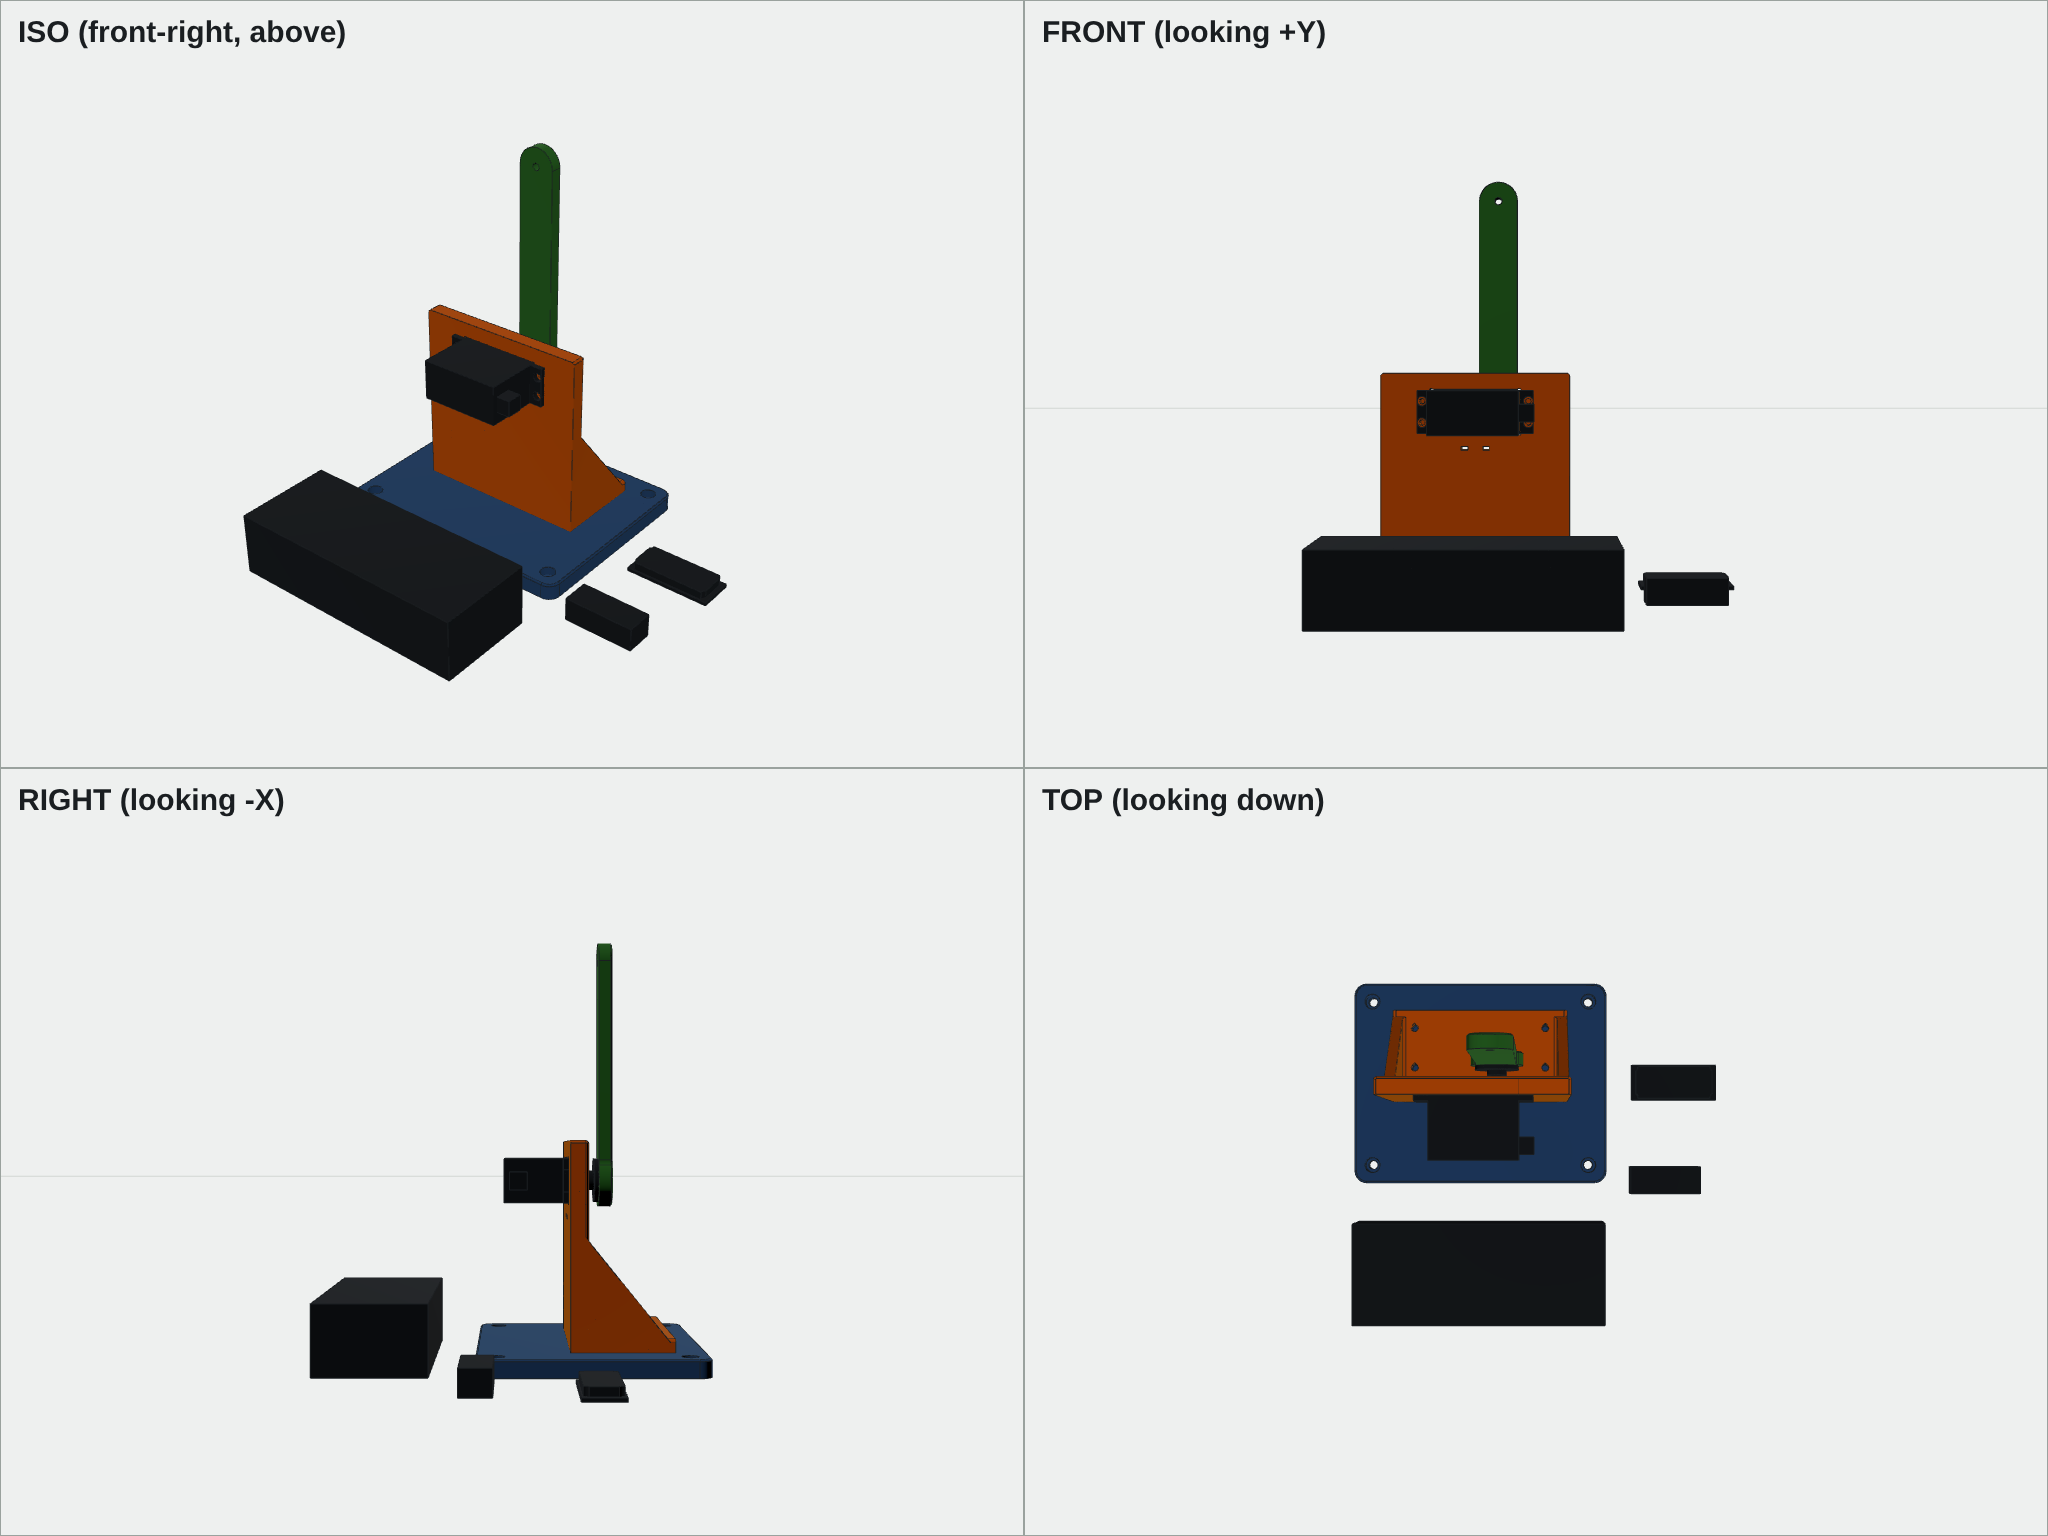
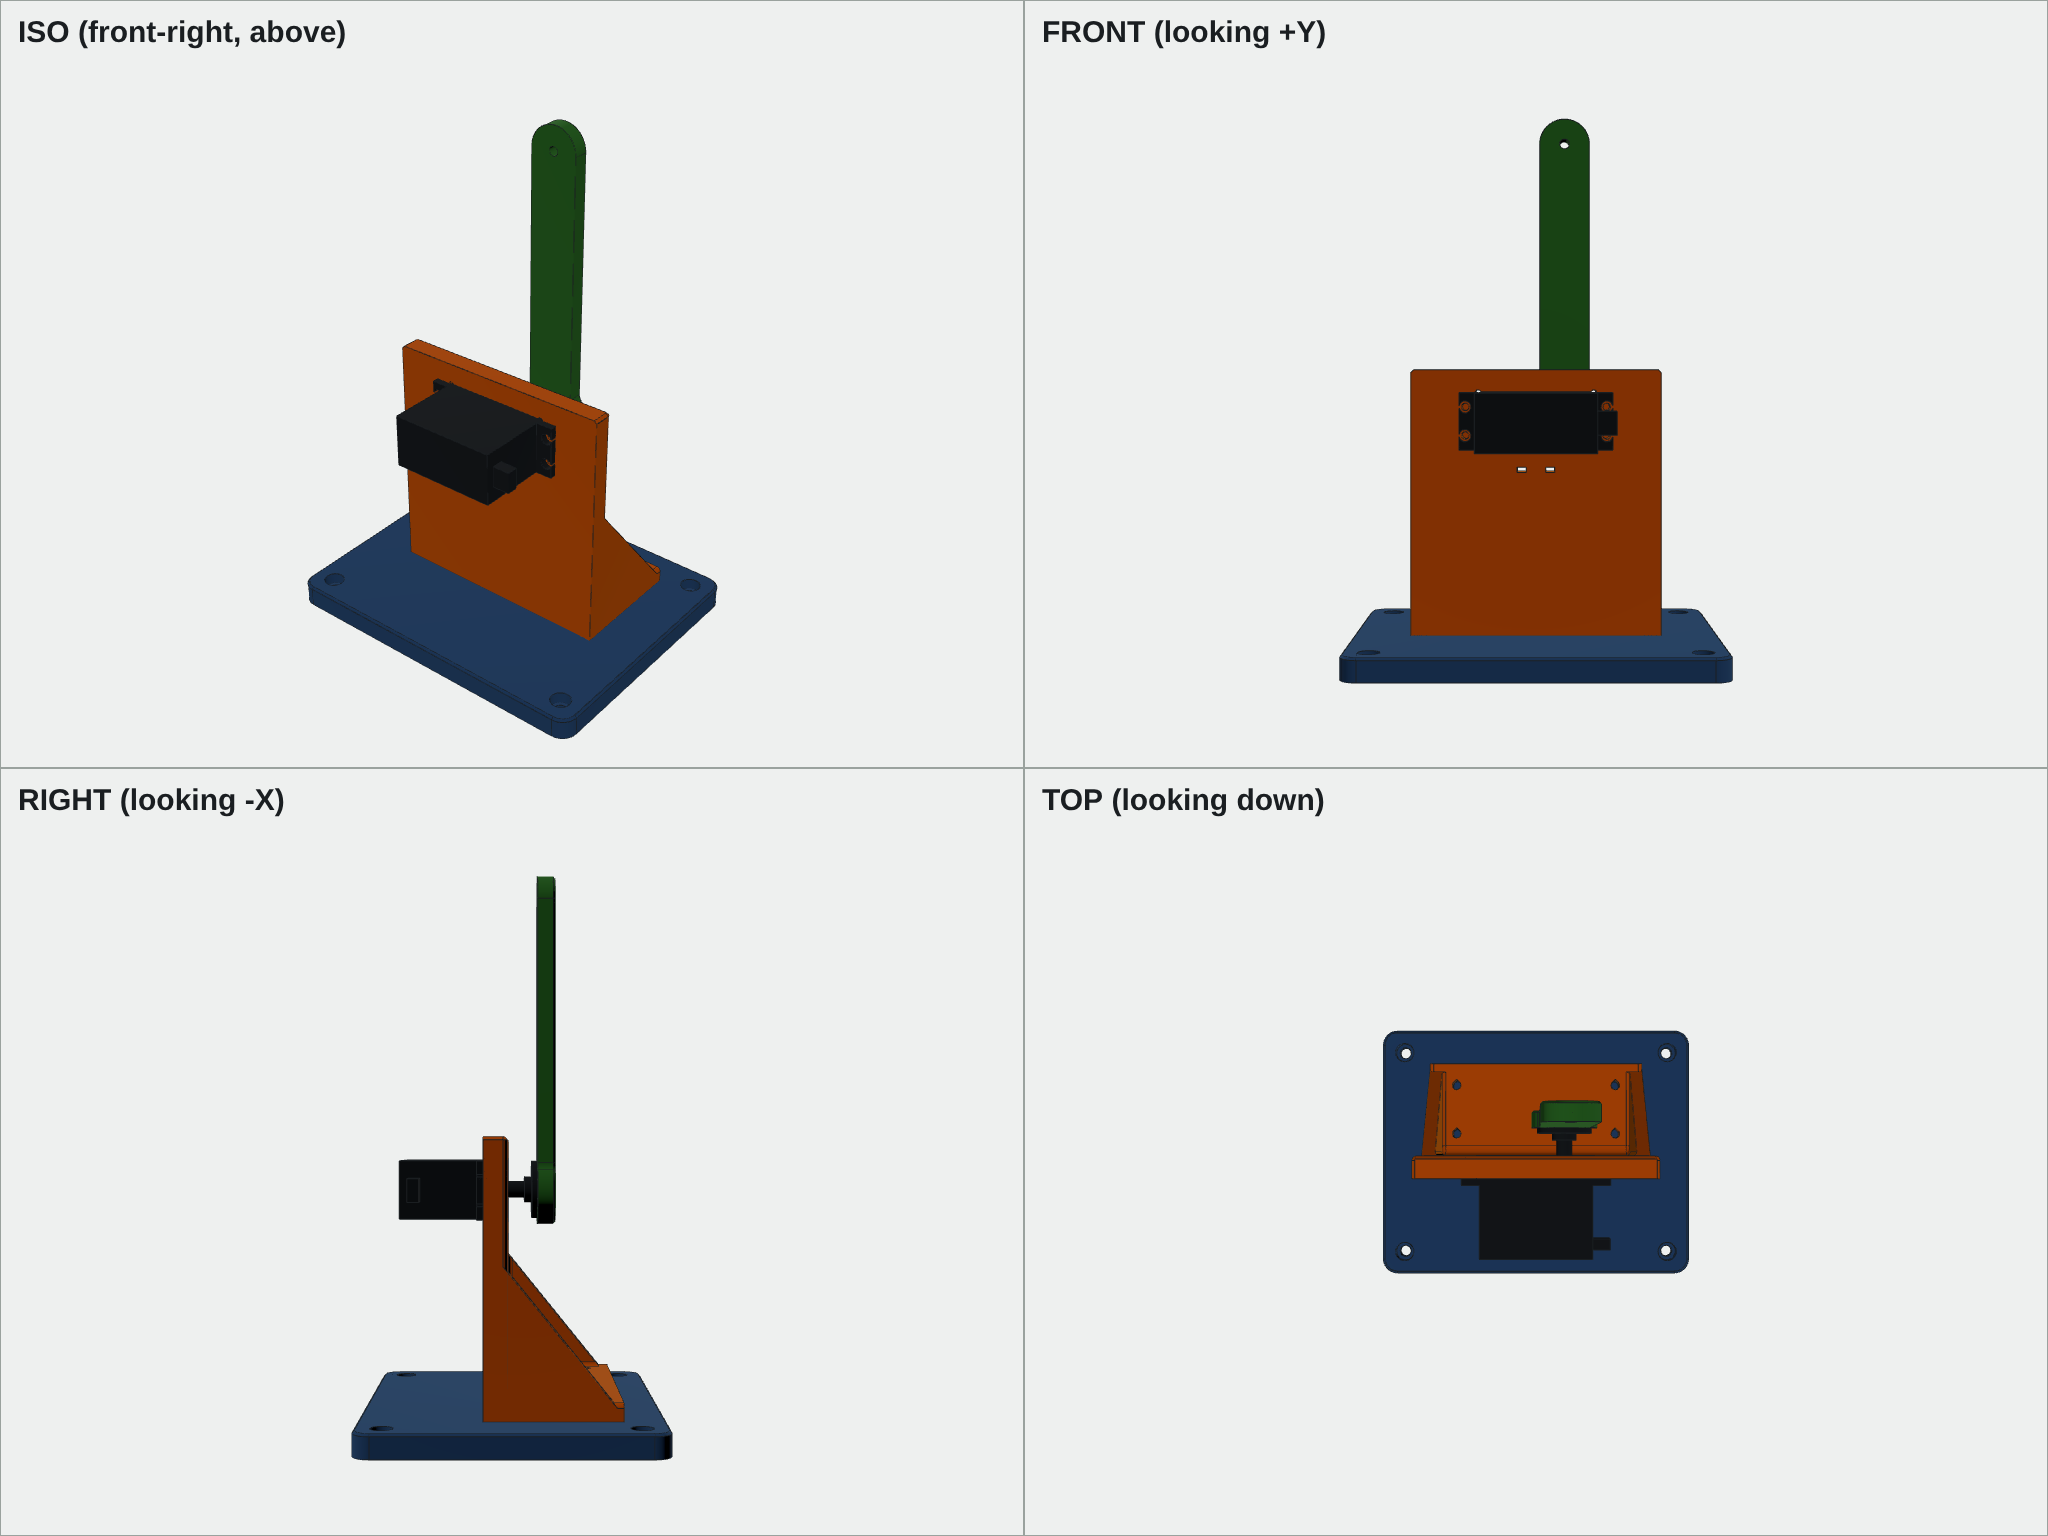
FEA result cache (servo_link check 56 s -> 18 s warm, identical results); close Bambu item on Spencer's decision
Claude-Session: https://claude.ai/code/session_01S68R6QqXZtq66TrxxxPXgt

diff --git a/kerf/fea.py b/kerf/fea.py
@@ -30,6 +30,34 @@ import numpy as np
 logging.getLogger("skfem").setLevel(logging.ERROR)
 
 
+# Result cache: a solve is fully determined by the mesh, the boundary faces each region selects, the load values,
+# the material and this file's code. Hashing exactly those (after meshing, before solving) makes a cache hit
+# provably the same answer; any change to geometry, loads, material or the solver is a miss. KERF_FEA_CACHE=0 disables.
+_SRC_HASH = __import__("hashlib").sha256(open(__file__, "rb").read()).hexdigest()[:16]
+
+
+def _cache_dir():
+    if os.environ.get("KERF_FEA_CACHE", "1") == "0":
+        return None
+    d = os.environ.get("KERF_CACHE") or os.path.join(os.path.dirname(os.path.dirname(os.path.abspath(__file__))), ".cache")
+    d = os.path.join(d, "fea")
+    os.makedirs(d, exist_ok=True)
+    return d
+
+
+def _key(E, nu, pts, tets, fixed_facets, loads):
+    import hashlib
+    h = hashlib.sha256()
+    import pyamg, scipy, skfem
+    h.update(f"{_SRC_HASH}|{skfem.__version__}|{pyamg.__version__}|{scipy.__version__}|{float(E)!r}|{float(nu)!r}|".encode())
+    for a in (np.round(pts, 6), np.ascontiguousarray(tets), np.sort(fixed_facets)):
+        h.update(str(a.shape).encode() + np.ascontiguousarray(a).tobytes())
+    for ld, facets in loads:
+        vals = {k: np.round(np.asarray(v, dtype=float), 9).tolist() for k, v in sorted(ld.items()) if k != "pred"}
+        h.update(repr(vals).encode() + np.sort(facets).tobytes())
+    return h.hexdigest()
+
+
 DIRECT_MAX_DOFS = 120000  # sparse LU fallback stays under ~2 GB up to here (P2 tets)
 MAX_TETS = 80000  # quadratic tets with the AMG solver stay well under ~2 GB
 
@@ -106,22 +134,34 @@ def static(shape, E_mpa: float, nu: float, fixed, loads, size: float | None = No
         pts, tets = _mesh(shape, size)
     mesh = MeshTet(pts.T, tets.T)
     elem = ElementVector(ElementTetP2())
-    basis = Basis(mesh, elem, intorder=4)          # stresses are sampled at these points
-    lam, mu = lame_parameters(E_mpa, nu)
-    # P2 gradients are linear on a straight-sided tet, so the stiffness integrand is quadratic: order 2 is exact.
-    K = stiffness(Basis(mesh, elem, intorder=2), lam, mu)
-    f = np.zeros(K.shape[0])
+    sel = []
     for ld in loads:
         ld = ld if isinstance(ld, dict) else {"pred": ld[0], "force": ld[1]}
         pred = ld["pred"]
         facets = mesh.facets_satisfying(lambda x: pred(x[0], x[1], x[2]), boundaries_only=True)
         if len(facets) == 0:
             raise ValueError("a load region selects no boundary faces")
-        fb = FacetBasis(mesh, elem, facets=facets, intorder=4)
-        f += asm(_traction(ld, fb), fb)
+        sel.append((ld, facets))
     fixed_facets = mesh.facets_satisfying(lambda x: fixed(x[0], x[1], x[2]), boundaries_only=True)
     if len(fixed_facets) == 0:
         raise ValueError("the fixed region selects no boundary faces")
+    cdir = _cache_dir()
+    cfile = os.path.join(cdir, _key(E_mpa, nu, pts, tets, fixed_facets, sel) + ".pkl") if cdir else None
+    if cfile and os.path.exists(cfile):
+        import pickle
+        try:
+            with open(cfile, "rb") as fh:
+                return dict(pickle.load(fh), cached=True)
+        except Exception:  # noqa: BLE001 - a damaged cache entry is just a miss
+            pass
+    basis = Basis(mesh, elem, intorder=4)          # stresses are sampled at these points
+    lam, mu = lame_parameters(E_mpa, nu)
+    # P2 gradients are linear on a straight-sided tet, so the stiffness integrand is quadratic: order 2 is exact.
+    K = stiffness(Basis(mesh, elem, intorder=2), lam, mu)
+    f = np.zeros(K.shape[0])
+    for ld, facets in sel:
+        fb = FacetBasis(mesh, elem, facets=facets, intorder=4)
+        f += asm(_traction(ld, fb), fb)
     D = basis.get_dofs(fixed_facets).all()
     # Iterative solve (algebraic multigrid + CG): a direct solver on quadratic tets needs GBs of RAM.
     import pyamg
@@ -165,12 +205,19 @@ def static(shape, E_mpa: float, nu: float, fixed, loads, size: float | None = No
     bf = mesh.boundary_facets()
     vm_el = vm.mean(axis=1)
     viz = {"tris": mesh.p[:, mesh.facets[:, bf]].transpose(2, 1, 0), "vm": vm_el[mesh.f2t[0, bf]]}
-    return {"applied_force_n": Fapp.round(4).tolist(), "applied_moment_nmm": Mapp.round(3).tolist(), "_viz": viz,
+    res = {"applied_force_n": Fapp.round(4).tolist(), "applied_moment_nmm": Mapp.round(3).tolist(), "_viz": viz,
             "max_vm_mpa": float(np.percentile(vm, 99.9)), "max_vm_peak_mpa": float(vm.max()), "median_vm_mpa": float(np.median(vm)),
             "max_disp_mm": float(np.linalg.norm(disp, axis=1).max()),
             "max_disp_at": mesh.p[:, int(np.argmax(np.linalg.norm(disp, axis=1)))].round(1).tolist(),
             "max_vm_peak_at": mesh.p[:, mesh.t[:, int(np.argmax(vm.max(axis=1)))]].mean(axis=1).round(1).tolist(),
             "nodes": int(mesh.p.shape[1]), "elements": int(mesh.t.shape[1])}
+    if cfile:
+        import pickle
+        tmp = cfile + f".{os.getpid()}.tmp"
+        with open(tmp, "wb") as fh:
+            pickle.dump(res, fh)
+        os.replace(tmp, cfile)                     # atomic: parallel runs never read a half-written entry
+    return dict(res, cached=False)
 
 
 def _traction(ld, fb):

diff --git a/tests/test_fea.py b/tests/test_fea.py
@@ -43,3 +43,23 @@ def test_fast_stiffness_equals_skfem():
     fast = fea.stiffness(Basis(mesh, elem, intorder=2), lam, mu, chunk=97)   # small chunks exercise the chunking
     assert abs(fast - ref).max() <= 1e-10 * abs(ref).max()     # round-off below 1e-10 x max is dropped on purpose
     assert np.allclose(fast.diagonal(), ref.diagonal())
+
+
+def test_result_cache_hits_only_for_identical_problems(tmp_path, monkeypatch):
+    from build123d import Box, Align
+    monkeypatch.setenv("KERF_CACHE", str(tmp_path))
+    bar = Box(60, 6, 6, align=(Align.MIN, Align.CENTER, Align.CENTER))
+    fixed = lambda x, y, z: x < 0.01  # noqa: E731
+    tip = lambda x, y, z: x > 59.99   # noqa: E731
+    a = fea.static(bar, 2000, 0.38, fixed, [(tip, (0, 0, -5.0))])
+    b = fea.static(bar, 2000, 0.38, fixed, [(tip, (0, 0, -5.0))])
+    assert a["cached"] is False and b["cached"] is True
+    for k in ("max_vm_mpa", "max_disp_mm", "nodes", "elements"):
+        assert a[k] == b[k]
+    c = fea.static(bar, 2000, 0.38, fixed, [(tip, (0, 0, -6.0))])      # different load -> new solve
+    d = fea.static(bar, 2100, 0.38, fixed, [(tip, (0, 0, -5.0))])      # different material -> new solve
+    e = fea.static(bar, 2000, 0.38, lambda x, y, z: x < 3, [(tip, (0, 0, -5.0))])  # different support -> new solve
+    assert not c["cached"] and not d["cached"] and not e["cached"]
+    assert c["max_disp_mm"] == pytest.approx(a["max_disp_mm"] * 1.2, rel=1e-6)
+    monkeypatch.setenv("KERF_FEA_CACHE", "0")
+    assert fea.static(bar, 2000, 0.38, fixed, [(tip, (0, 0, -5.0))])["cached"] is False

diff --git a/PLAN.md b/PLAN.md
@@ -81,7 +81,7 @@ tested before handoff.
 - [x] Creative mode via Meshy: parts declared `source: meshy` with a prompt are generated through the Meshy MCP tools for organic/cosmetic shells and fused with the exact mounting features into ONE printable body. Proven approach (docs/prototypes/mesh_merge.py, 2026-10-30): do the booleans in mesh space with `manifold3d` (0.2-1.6 s for 80k-330k triangles, watertight single body, M3 holes probed exact), NOT through the B-rep kernel (34 s at 20k triangles). Repair ladder per connected piece: merge verts + fill holes, else voxel remesh; then union the pieces (a broken mesh with a stray overlapping piece otherwise yields 2 bodies). Holes/bosses/keep-outs come from the part's build123d features, tessellated fine; scale the mesh to declared bounds first. Output STL/3MF for printing; STEP holds the mechanical features only. Fastener/interference checks use the merged mesh. Add manifold3d + networkx to setup. Test with a cached broken mesh so CI needs no Meshy call
 - [x] Self-correcting errors: every build/check failure raised from part code names the part, the feature and the fix hint (e.g. "fillet on edge group 'top' failed: radius 3 > wall 2.4; use <= 1.1"), and the part-designer loop feeds it back and retries automatically; test with deliberately broken parts
 - [x] Click-to-edit in the viewer: clicking a face in `viewer.html` shows which part file, feature and parameter produced it, and lets Spencer copy a ready-made edit request ("arm.py: arm_length 120 -> 130") for Claude Code
-- [ ] Bambu A2L handoff: `kerf print <project>` auto-orients each part (min supports, load_axis aware), slices with the A2L profile (Bambu Studio / OrcaSlicer CLI) to .gcode.3mf, then sends over the printer's official LAN / developer mode (MQTT + FTPS; see wiki.bambulab.com third-party-integration and enable-developer-mode) and polls status. Fallback when LAN access is off: write the sliced file and open it in Bambu Studio for one-click send. Dry-run tested in CI; one real print verified with Spencer
+- [x] Bambu A2L handoff: `kerf print <project>` auto-orients each part (min supports, load_axis aware), slices with the A2L profile (Bambu Studio / OrcaSlicer CLI) to .gcode.3mf, then sends over the printer's official LAN / developer mode (MQTT + FTPS; see wiki.bambulab.com third-party-integration and enable-developer-mode) and polls status. Fallback when LAN access is off: write the sliced file and open it in Bambu Studio for one-click send. Dry-run tested in CI; one real print verified with Spencer — CLOSED by Spencer's decision (2026-10-31): he moves files to the printer himself, so no real print through `kerf print` is required. Shipped: orient + plates + slice-when-configured + open in Bambu Studio; LAN send (FTPS/MQTT) is tested against fakes only, never against a real printer
 - [x] Print-truth loop: `kerf calibrate` builds a small A2L coupon (M2/M2.5/M3 clearance + tap + heat-set holes, 608 and 623 bearing pockets, 0.2/0.3/0.4 mm slip-fit pins, a servo-tab window). Spencer reports what fit (`kerf feedback <material> hole_M3=tight ...`); offsets are stored per printer+material in catalog/printers/ with the date and applied by iface, so every later design fits his real printer, not a textbook one. Tests use synthetic feedback
 - [x] Ship package: BOM gains buy links and unit/total cost for every purchased item (catalog sources), and `kerf build` writes `out/ASSEMBLY.md` — step-by-step assembly order with an exploded render per step and the screw/insert list for each step
 

diff --git a/STATUS.md b/STATUS.md
@@ -931,3 +931,12 @@ pushed for it and what I know:
 - Note for Spencer: `.claude/hooks/stop_gate.py` gives `kerf verify` 3500 s, but a full verify takes 4100-4400 s on
   this 2-CPU cloud container, so the gate times out here (traceback, no verdict). Not edited (CLAUDE.md rule 1);
   raising that timeout to ~6000 s would fix it.
+
+## 2026-10-31 22:30 UTC — planning session 01S68R6Q: Bambu item closed by Spencer, FEA cache
+- Spencer (in chat): "let me handle the connection between file and printer". PLAN "Bambu A2L handoff" checked off on
+  his decision; .claude/state/BLOCKED removed (its only blocker was that real print). The LAN send path stays
+  untested on hardware (noted in the PLAN line).
+- kerf/fea.py: result cache. Key = sha256 of the mesh, the faces each fixed/load region selects, every load value,
+  E, nu, fea.py source and skfem/pyamg/scipy versions, taken after meshing and before solving, so a hit is the same
+  problem by construction. Stored in .cache/fea (gitignored; KERF_CACHE moves it, KERF_FEA_CACHE=0 disables).
+  servo_link check 56 s cold -> 18 s warm, identical results. Test: test_result_cache_hits_only_for_identical_problems.
